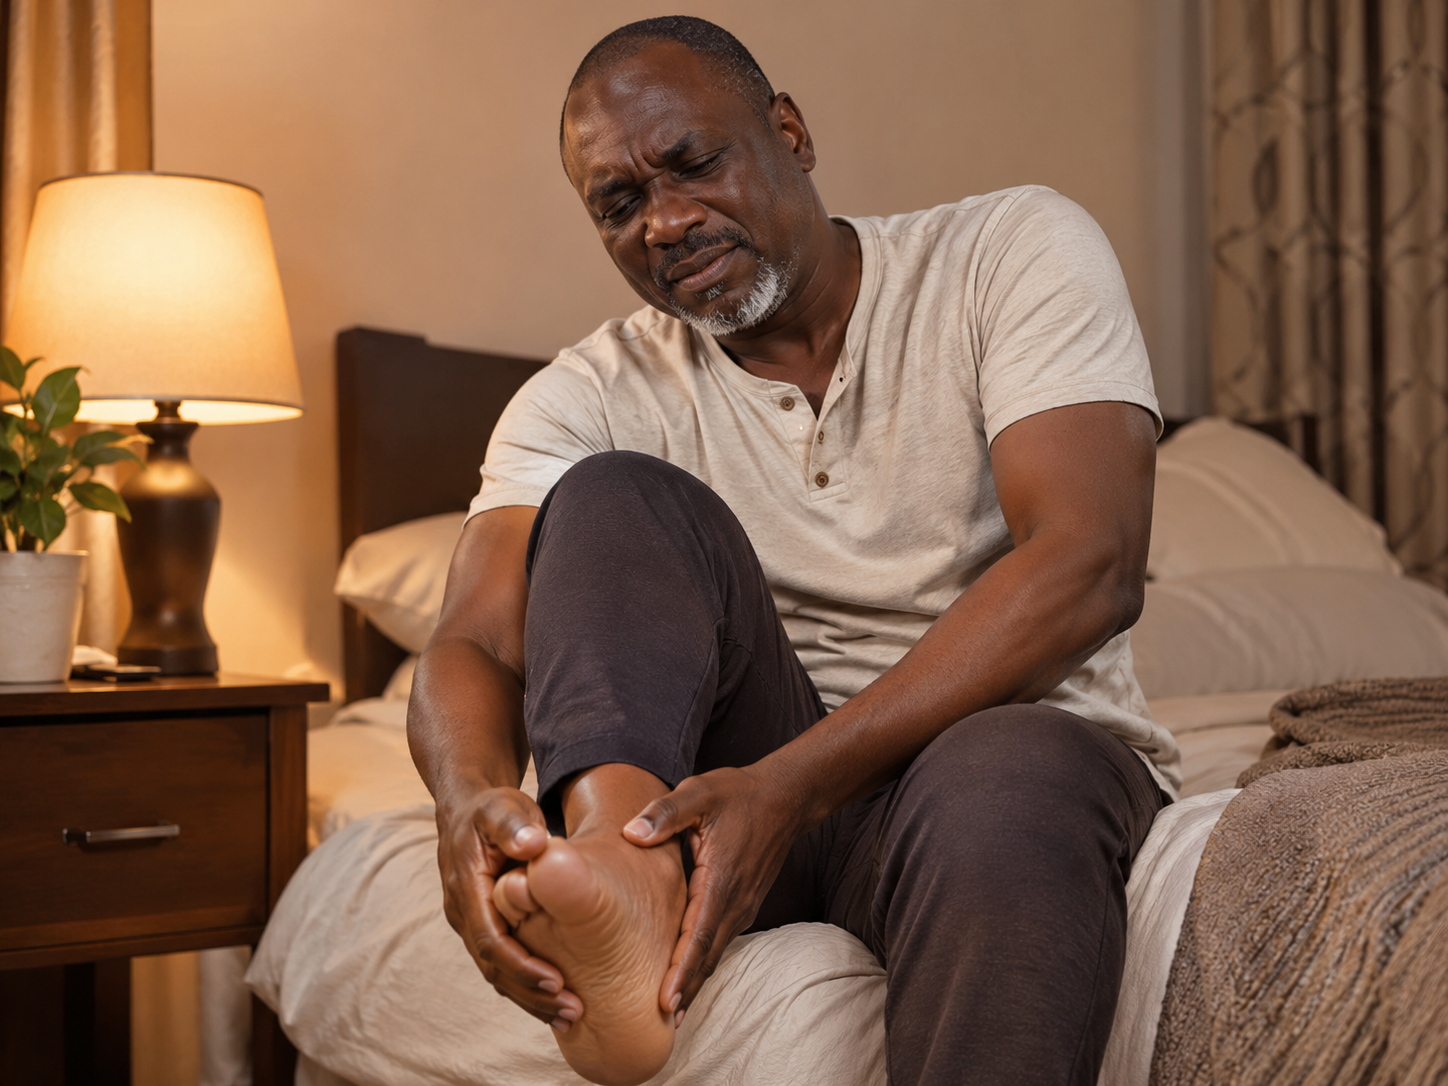
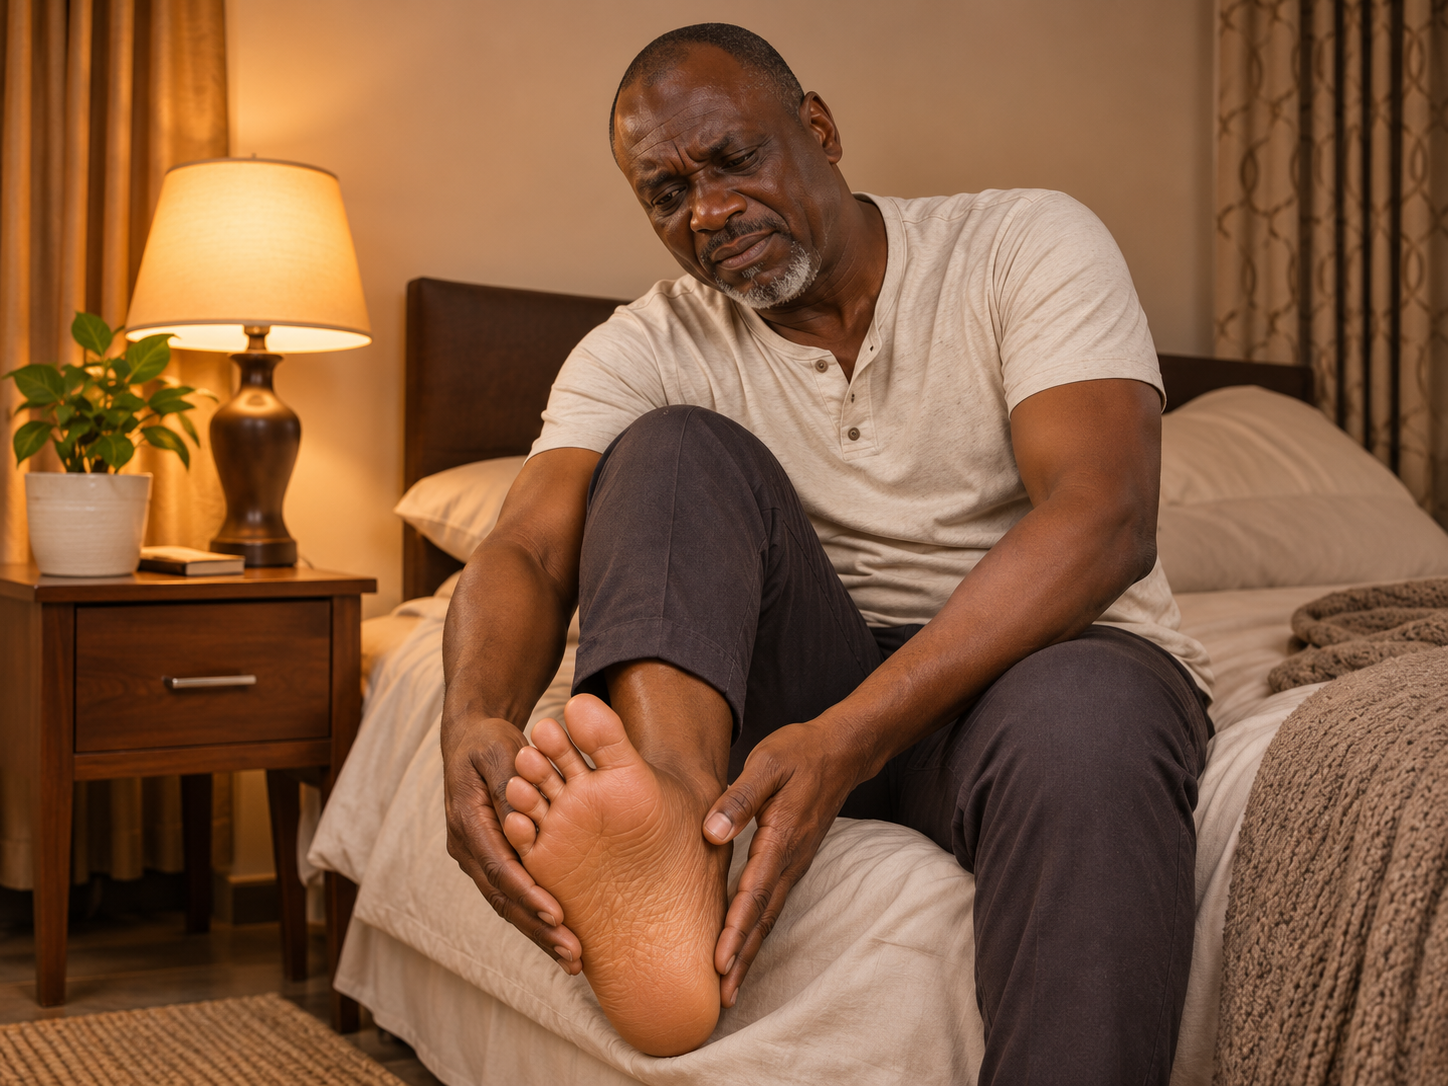
fix: shorter, lighter mobile page and correct image cropping
New neuropathy photo, and a mobile compaction pass.

Base styles were sitting outside @layer base, and unlayered CSS outranks
every Tailwind utility. So `img { height: auto }` silently beat `h-full`:
every ratio-cropped image overflowed its box (341x256 inside 341x136) and
was clipped to its top edge, which also made object-position a no-op.
Moving those rules into @layer base fixes framing across the whole site,
so the balm card now shows the balm being applied rather than a face.

Mobile page height 15,512px -> 12,272px at 375x812, a 21% shorter scroll:
- product and pricing cards put the image and pack visual beside the text
  instead of above it
- benefits and trust go to two columns; symptom and agitation art uses
  3/2 instead of 4/3
- images that only repeat the hero product shot are desktop-only
- section padding 24px -> 18px, and several intros lost a duplicate
  sentence rather than losing information

Also:
- no backdrop-blur on the sticky header or order bar, which repainted a
  blurred layer on every scroll frame on low-end Android
- pack visual scales down so a 3 + 3 pack no longer overflows at 320px
- the third announcement item now really is hidden on small screens;
  `inline-flex` had been overriding `hidden`

Verified headless at 320, 375, 390, 430, 768 and 1440: no horizontal
overflow, 26/26 images load, package selection and the no-endpoint guard
still behave.

diff --git a/src/styles/global.css b/src/styles/global.css
@@ -44,26 +44,35 @@
   }
 }
 
-body {
-  font-family: var(--font-sans);
-  color: var(--color-ink);
-  background: #ffffff;
-  font-size: 1.0625rem;
-  line-height: 1.6;
-  -webkit-font-smoothing: antialiased;
-  overflow-x: hidden;
+/*
+ * These MUST stay inside @layer base. Unlayered rules outrank every Tailwind
+ * utility, so an unlayered `img { height: auto }` would silently beat `h-full`
+ * and let ratio-cropped images overflow their box, and an unlayered heading
+ * `line-height` would beat `leading-*`.
+ */
+@layer base {
+  body {
+    font-family: var(--font-sans);
+    color: var(--color-ink);
+    background: #ffffff;
+    font-size: 1.0625rem;
+    line-height: 1.6;
+    -webkit-font-smoothing: antialiased;
+    overflow-x: hidden;
+  }
+
+  h1, h2, h3, h4, .font-display {
+    font-family: var(--font-display);
+    letter-spacing: -0.015em;
+    line-height: 1.15;
+    text-wrap: balance;
+  }
+
+  p { text-wrap: pretty; }
+
+  img { max-width: 100%; height: auto; }
 }
 
-h1, h2, h3, h4, .font-display {
-  font-family: var(--font-display);
-  letter-spacing: -0.015em;
-  line-height: 1.15;
-  text-wrap: balance;
-}
-
-p { text-wrap: pretty; }
-
-img { max-width: 100%; height: auto; }
 
 /* Focus visibility for keyboard and screen-reader users */
 :focus-visible {
@@ -80,8 +89,8 @@ img { max-width: 100%; height: auto; }
 }
 
 @utility section-y {
-  padding-block: 24px;
-  @media (width >= 768px) { padding-block: 44px; }
+  padding-block: 18px;
+  @media (width >= 768px) { padding-block: 40px; }
 }
 
 /* Primary call to action */
